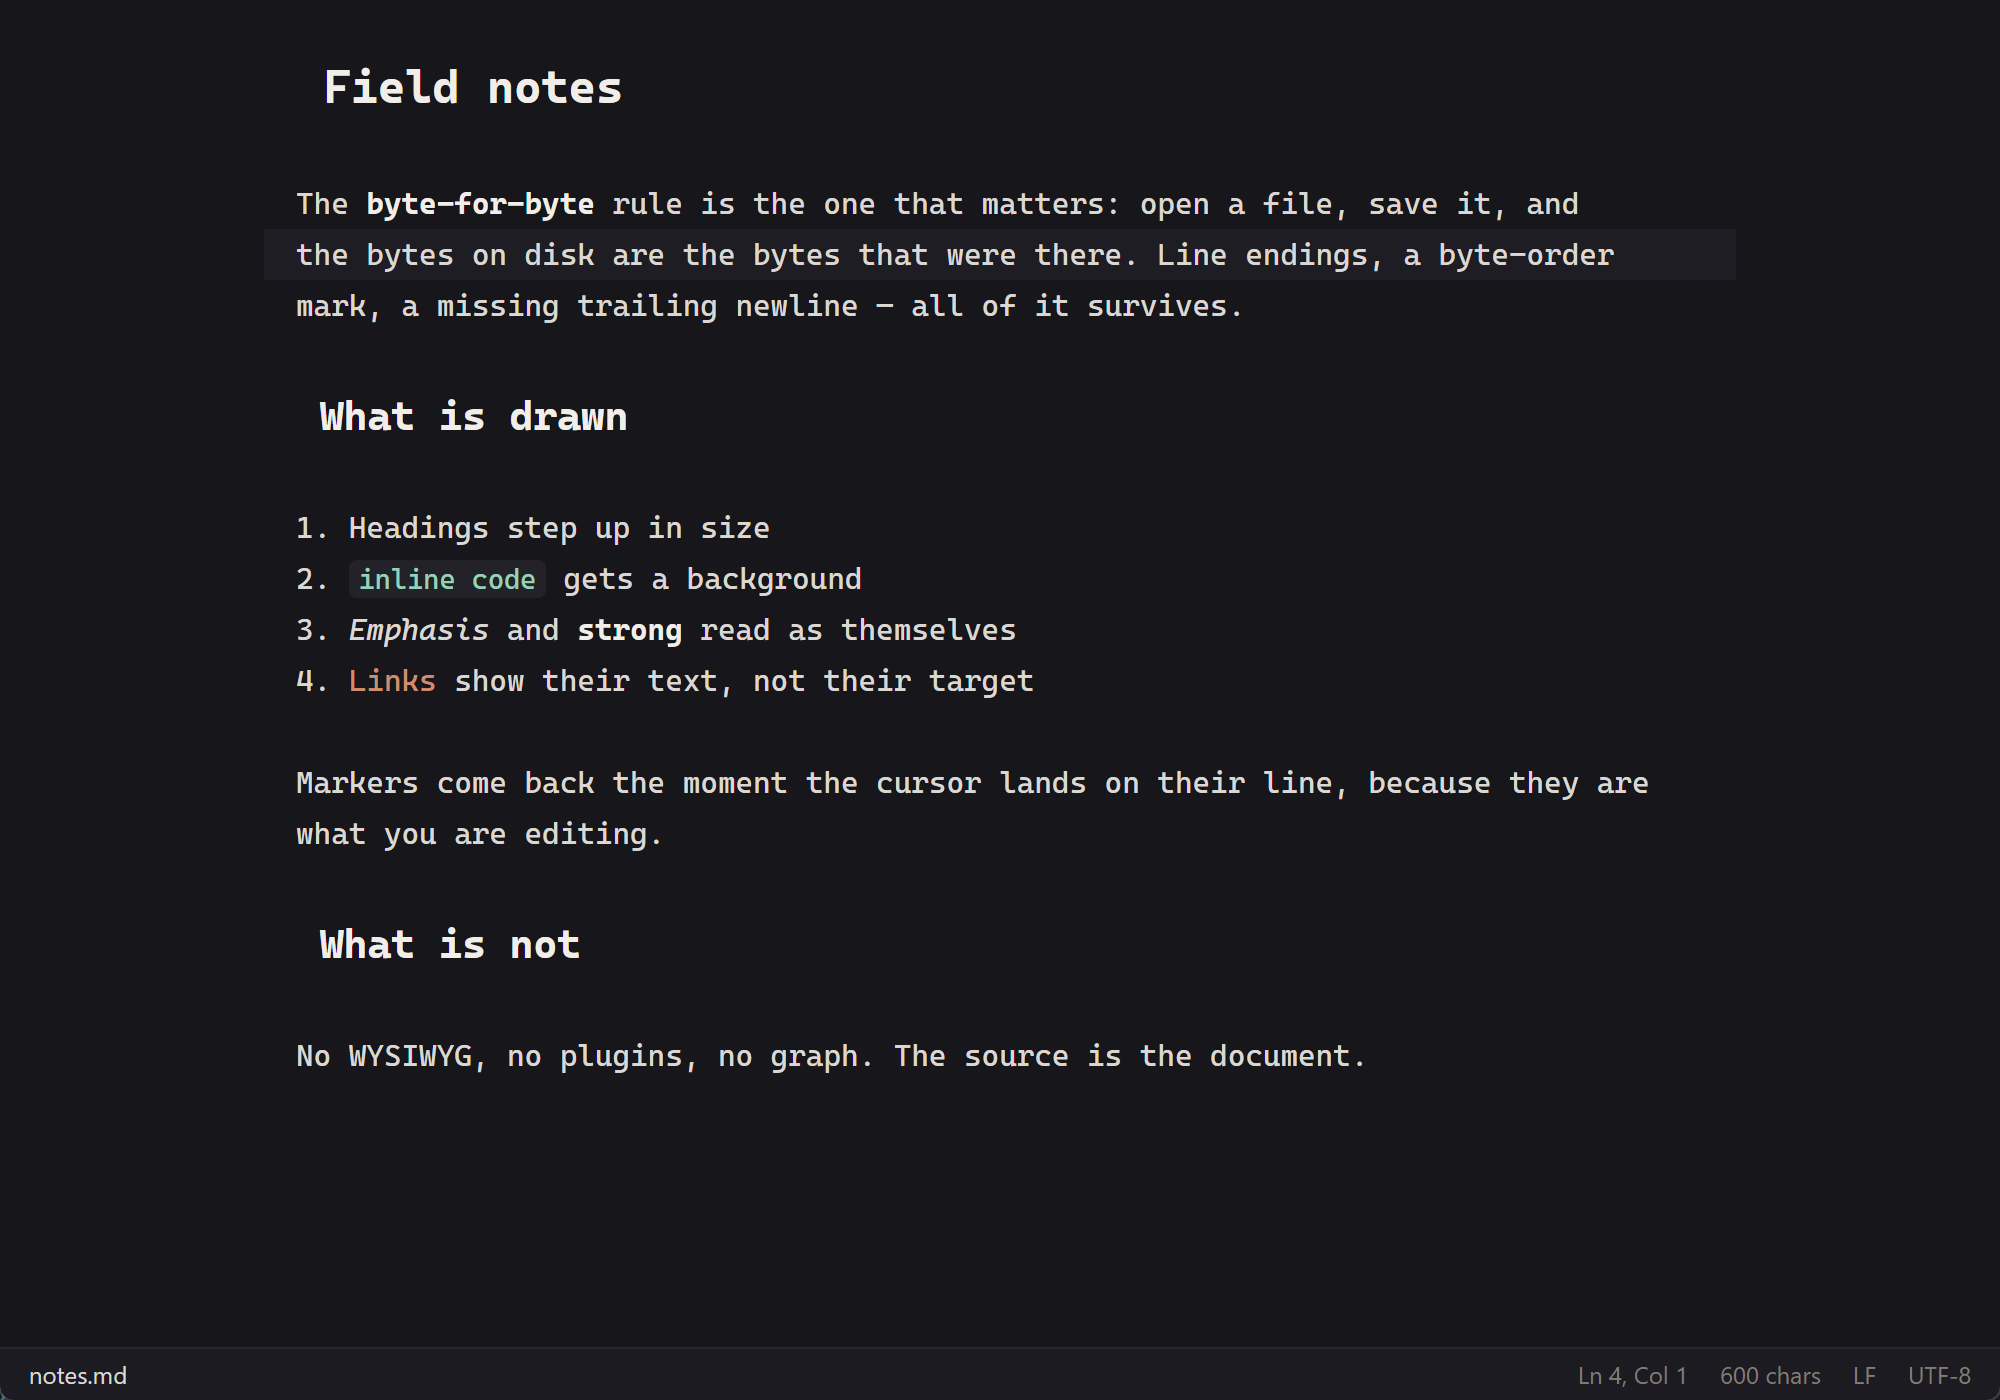
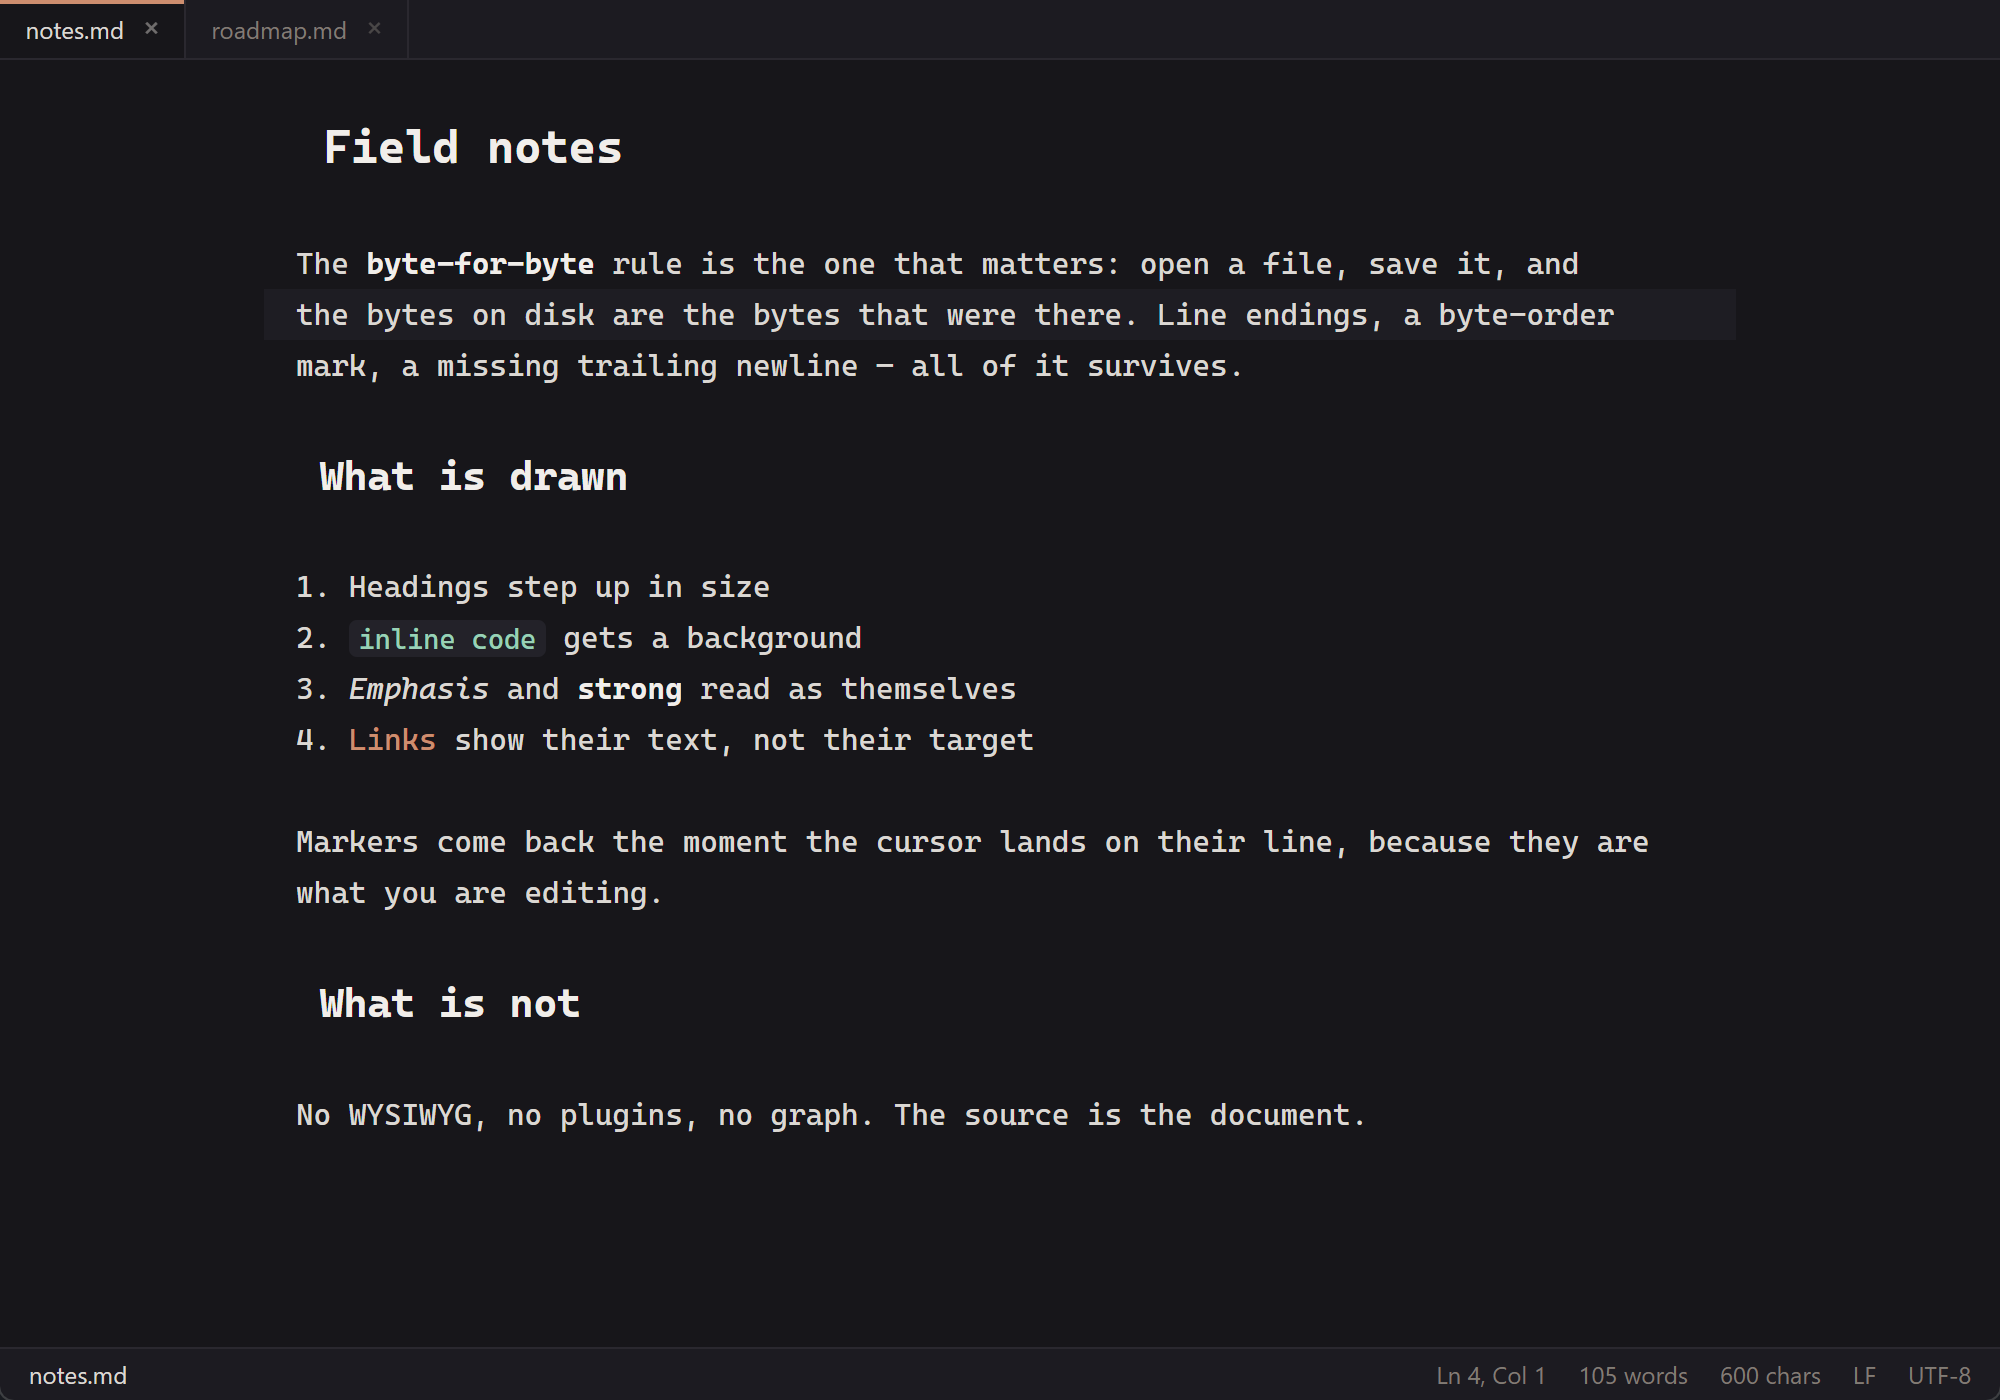
chore: prepare v0.2.0
Version in the three manifests, README status and promises, and a
screenshot taken from this build.

diff --git a/README.md b/README.md
@@ -6,7 +6,7 @@
 
 Double-click a `.md` file and the text is on screen before you notice the window. Headings, emphasis, code and links are drawn over the source as you type; the source itself never changes shape. Open a folder — or a file inside an Obsidian vault — and the same window grows a file tree, `[[wikilinks]]`, backlinks and search. Close it and the folder is exactly as you found it.
 
-> **Status: `v0.1.0` — a file on screen.** Open a markdown file, read it with the markup drawn over the source, edit it, save it back byte for byte. No tabs, no file tree and no installer yet; those are `v0.2.0`. See the [roadmap](#roadmap).
+> **Status: `v0.2.0` — the notepad.** Windows installer, file associations, tabs, find and replace, recent files, themes. Enough to replace Notepad for markdown. The file tree and `[[links]]` come next; see the [roadmap](#roadmap).
 
 <img src="https://raw.githubusercontent.com/lacodda/scheda/main/assets/screenshot.png" alt="scheda showing a markdown file with headings, emphasis and inline code drawn over the source" width="880">
 
@@ -20,9 +20,12 @@ scheda is the notepad with a lean towards markdown: the speed of the third, the 
 
 ## What it does today
 
-- **Opens instantly.** A file from the command line, from `Ctrl+O`, from a drop on the window. The core reads it before the window exists, so the text is in hand by the time there is somewhere to put it — 440 ms from process start to the first character on screen, measured, against a 500 ms gate.
+- **Opens instantly.** A file from a double-click, from the command line, from `Ctrl+O`, from a drop on the window. The core reads it before the window exists, so the text is in hand by the time there is somewhere to put it — 440 ms from process start to the first character on screen, measured, against a 500 ms gate.
 - **Shows markdown without hiding the source.** Headings, emphasis, code and links are drawn over the text. Their syntax markers step back on lines you are not editing and return the moment the cursor arrives. Not WYSIWYG: the source is the document.
-- **Saves exactly what it opened.** Line endings — including a file that mixes CRLF and LF line by line — a byte-order mark, and a missing trailing newline all survive. A file that is not UTF-8 opens read-only rather than being guessed at. A corpus of deliberately awkward files proves it on every build.
+- **Saves exactly what it opened.** Line endings — including a file that mixes CRLF and LF line by line — a byte-order mark, and a missing trailing newline all survive. A file that is not UTF-8 opens read-only rather than being guessed at. A corpus of deliberately awkward files proves it on every build, and the owner's own vault of 5000 notes is checked before every release.
+- **Holds several files at once.** Tabs with their own undo history, and a second launch that hands its file to the window you already have instead of opening another one.
+- **Finds and replaces.** `Ctrl+F`, with every match highlighted and the current one standing apart.
+- **Remembers.** The files you last opened, shown on an empty window. Theme, font size and column width in a settings file — in the application's own directory, never in the folder you opened.
 - **Says what it is holding.** The status bar reports the line endings and the encoding it will write, before you save.
 
 ## What it will do
@@ -36,14 +39,16 @@ scheda is the notepad with a lean towards markdown: the speed of the third, the 
 | Version | Promise |
 | --- | --- |
 | 0.1 | **Released.** A file on screen: open, decorate, save byte for byte. Cold start measured at 440 ms against the 0.5 s threshold. |
-| 0.2 | **The notepad.** Windows installer, file associations, tabs, recent files, find and replace, themes. This is the first version meant to replace Notepad. |
+| 0.2 | **Released.** The notepad: installer, file associations, tabs, recent files, find and replace, themes. |
 | 0.3 – 0.7 | Full markup, reading mode, the vault root rule, links and backlinks, search and index, sessions and a command palette. |
 | 1.0 | Desktop complete; the index and settings formats are frozen. |
 | 1.x | Sync between desktops via efema, then the Android replica. |
 
 ## Install
 
-Grab the build for your platform from the [releases page](https://github.com/lacodda/scheda/releases). Building from source needs Rust, Node 22 and pnpm:
+Grab the build for your platform from the [releases page](https://github.com/lacodda/scheda/releases). The Windows installer registers scheda as a markdown handler — it appears under *Open with*, and making it the default is one click in Settings, because Windows does not let a program take that decision for you.
+
+Building from source needs Rust, Node 22 and pnpm:
 
 ```sh
 pnpm install
